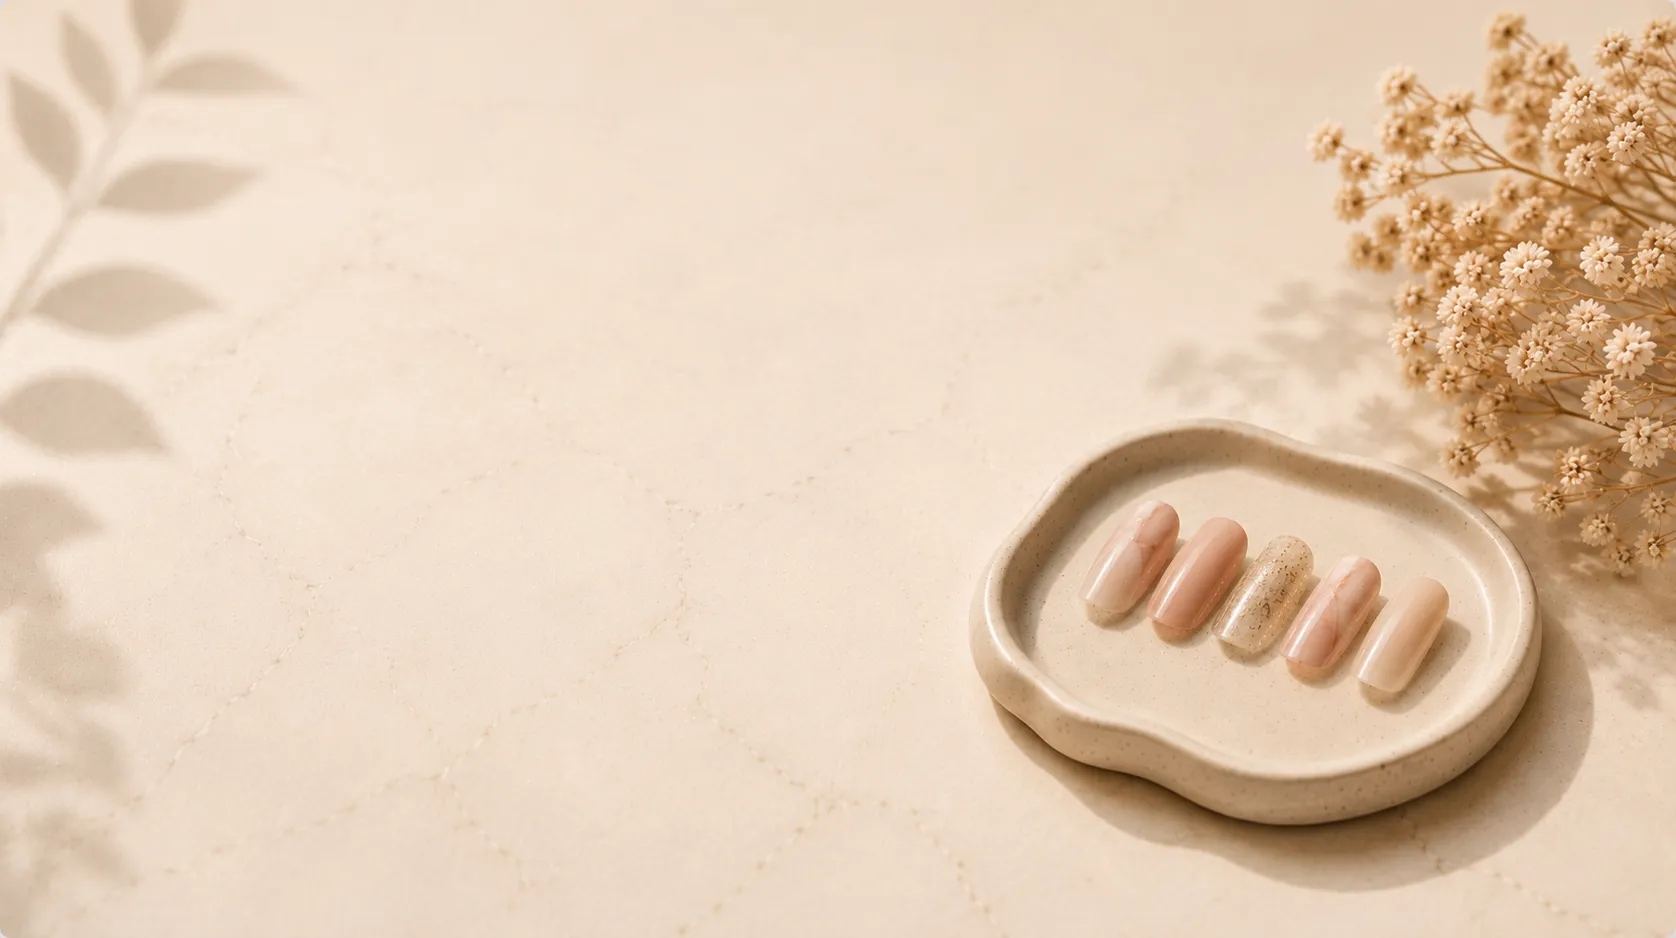
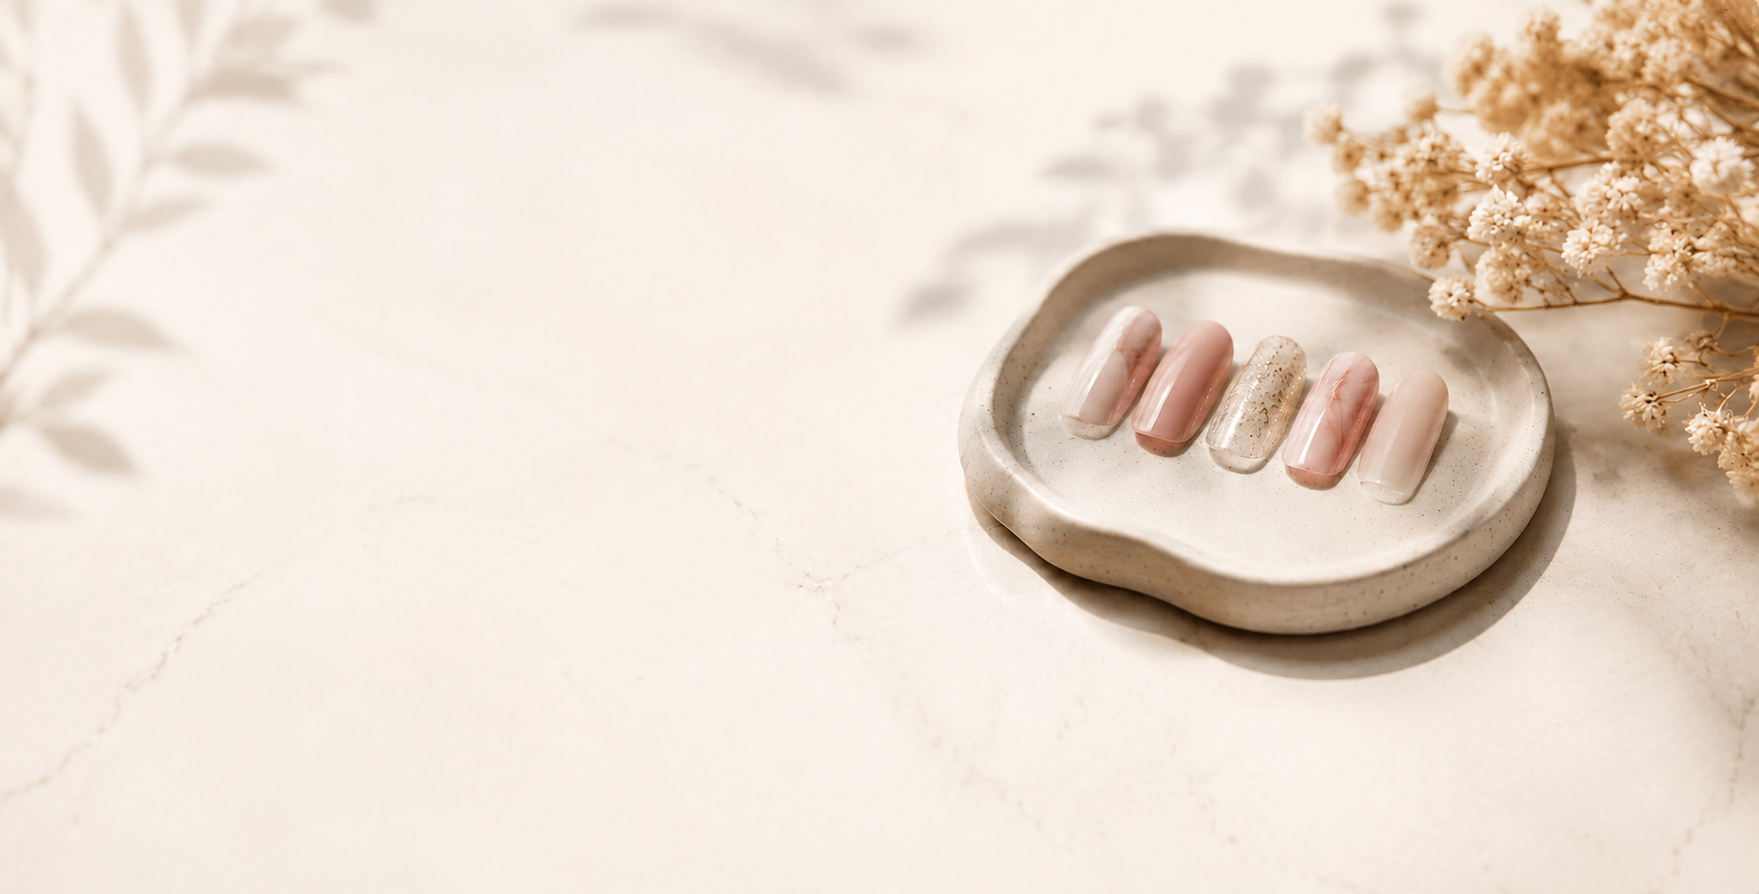
Adjust hero section composition

diff --git a/src/components/sections/HeroSection.tsx b/src/components/sections/HeroSection.tsx
@@ -16,42 +16,45 @@ export function HeroSection() {
   return (
     <section
       className="relative overflow-hidden"
-      style={{ height: 'calc(100vh - 68px - 64px)', minHeight: 500 }}
+      style={{ height: 'calc(100vh - 68px)', minHeight: 680 }}
     >
       {/* Full-width background image */}
       <motion.div
         className="absolute inset-0"
-        initial={{ scale: 1.1 }}
-        animate={{ scale: 1.06 }}
+        initial={{ scale: 1.025 }}
+        animate={{ scale: 1 }}
         transition={{ duration: 1.6, ease: 'easeOut' }}
       >
         <Image
           src="/images/hero.webp"
           alt="Nail Time Studio"
           fill
-          className="object-cover object-[55%_45%]"
+          className="object-cover object-[50%_50%]"
+          sizes="100vw"
           priority
         />
       </motion.div>
 
       {/* Left gradient — minimal so leaf shadow shows through */}
-      <div className="absolute inset-0 bg-gradient-to-r from-cream/60 via-cream/25 to-transparent pointer-events-none" />
+      <div className="absolute inset-0 bg-gradient-to-r from-cream/80 via-cream/40 to-transparent pointer-events-none" />
+      <div className="absolute inset-0 bg-gradient-to-b from-white/18 via-transparent to-cream/10 pointer-events-none" />
 
       {/* Text content — left side overlay */}
-      <div className="relative z-10 flex flex-col justify-center h-full px-10 md:px-14 lg:px-20 py-10 max-w-[520px] gap-4">
+      <div className="relative z-10 flex h-full w-full flex-col items-center justify-center px-6 py-10 text-center md:w-[48%] md:px-12 lg:px-20">
+        <div className="flex max-w-[520px] flex-col items-center gap-5">
 
         {/* Brand */}
         <motion.div
-          className="flex flex-col gap-1.5"
+          className="flex flex-col items-center gap-2"
           initial={{ opacity: 0, y: 14 }}
           animate={{ opacity: 1, y: 0 }}
           transition={{ duration: 0.7, ease, delay: 0.1 }}
         >
-          <span className="text-base md:text-lg font-light tracking-[0.35em] uppercase text-site-dark/80 whitespace-nowrap">
+          <span className="text-base md:text-lg font-light tracking-[0.52em] uppercase text-sand-dark/90 whitespace-nowrap">
             Nail Time Studio
           </span>
-          <div className="flex items-center gap-2.5">
-            <span className="block w-5 h-px bg-sand/50 shrink-0" />
+          <div className="flex items-center justify-center gap-3">
+            <span className="block w-6 h-px bg-sand/55 shrink-0" />
             <span className="text-[9px] tracking-[0.3em] uppercase text-site-gray">
               ดอนหัวฬอ · ชลบุรี
             </span>
@@ -59,11 +62,11 @@ export function HeroSection() {
         </motion.div>
 
         {/* Headline */}
-        <div className="flex flex-col gap-0">
+        <div className="flex flex-col items-center gap-0">
           {HEADLINE.map((line, i) => (
             <div key={line.text} className="overflow-hidden">
               <motion.h1
-                className={`text-4xl md:text-5xl font-bold leading-[1.1] font-serif ${line.className}`}
+                className={`text-[2.65rem] sm:text-5xl md:text-[3.3rem] lg:text-[3.75rem] font-bold leading-[1.08] font-serif ${line.className}`}
                 initial={{ y: '110%' }}
                 animate={{ y: '0%' }}
                 transition={{ duration: 0.9, ease, delay: 0.2 + i * 0.13 }}
@@ -76,7 +79,7 @@ export function HeroSection() {
 
         {/* Subtext */}
         <motion.p
-          className="text-sm text-site-gray leading-relaxed"
+          className="max-w-md text-sm md:text-[15px] text-site-gray leading-relaxed"
           initial={{ opacity: 0, y: 10 }}
           animate={{ opacity: 1, y: 0 }}
           transition={{ duration: 0.8, ease, delay: 0.7 }}
@@ -87,7 +90,7 @@ export function HeroSection() {
 
         {/* CTA */}
         <motion.div
-          className="flex items-center gap-4 flex-wrap"
+          className="flex items-center justify-center gap-4 flex-wrap"
           initial={{ opacity: 0, y: 10 }}
           animate={{ opacity: 1, y: 0 }}
           transition={{ duration: 0.8, ease, delay: 0.85 }}
@@ -108,28 +111,29 @@ export function HeroSection() {
 
         {/* Stats */}
         <motion.div
-          className="flex items-center gap-6 pt-5 border-t border-sand/20"
+          className="mt-2 flex w-full max-w-[520px] items-center justify-center gap-0 overflow-hidden rounded-none border border-sand/20 bg-cream/18 py-5 shadow-[0_12px_36px_rgba(89,64,38,0.05)] backdrop-blur-[2px]"
           initial={{ opacity: 0 }}
           animate={{ opacity: 1 }}
           transition={{ duration: 1, delay: 1.0 }}
         >
-          <div>
-            <span className="block text-xl font-bold text-sand leading-none font-serif">
+          <div className="flex-1 px-4">
+            <span className="block text-2xl font-bold text-sand-dark leading-none font-serif">
               <CountUp to={2000} suffix="+" duration={2000} />
             </span>
             <span className="text-[10px] text-site-gray mt-1 tracking-wide block">ผู้ติดตาม</span>
           </div>
-          <div className="w-px h-8 bg-sand/25" />
-          <div>
-            <span className="block text-xl font-bold text-sand leading-none font-serif">5★</span>
+          <div className="w-px h-12 bg-sand/25" />
+          <div className="flex-1 px-4">
+            <span className="block text-2xl font-bold text-sand-dark leading-none font-serif">5★</span>
             <span className="text-[10px] text-site-gray mt-1 tracking-wide block">รีวิวจากลูกค้า</span>
           </div>
-          <div className="w-px h-8 bg-sand/25" />
-          <div>
-            <span className="block text-xl font-bold text-sand leading-none font-serif">8+</span>
+          <div className="w-px h-12 bg-sand/25" />
+          <div className="flex-1 px-4">
+            <span className="block text-2xl font-bold text-sand-dark leading-none font-serif">8+</span>
             <span className="text-[10px] text-site-gray mt-1 tracking-wide block">ปีประสบการณ์</span>
           </div>
         </motion.div>
+        </div>
       </div>
 
       {/* Spinning circular badge — bottom right */}